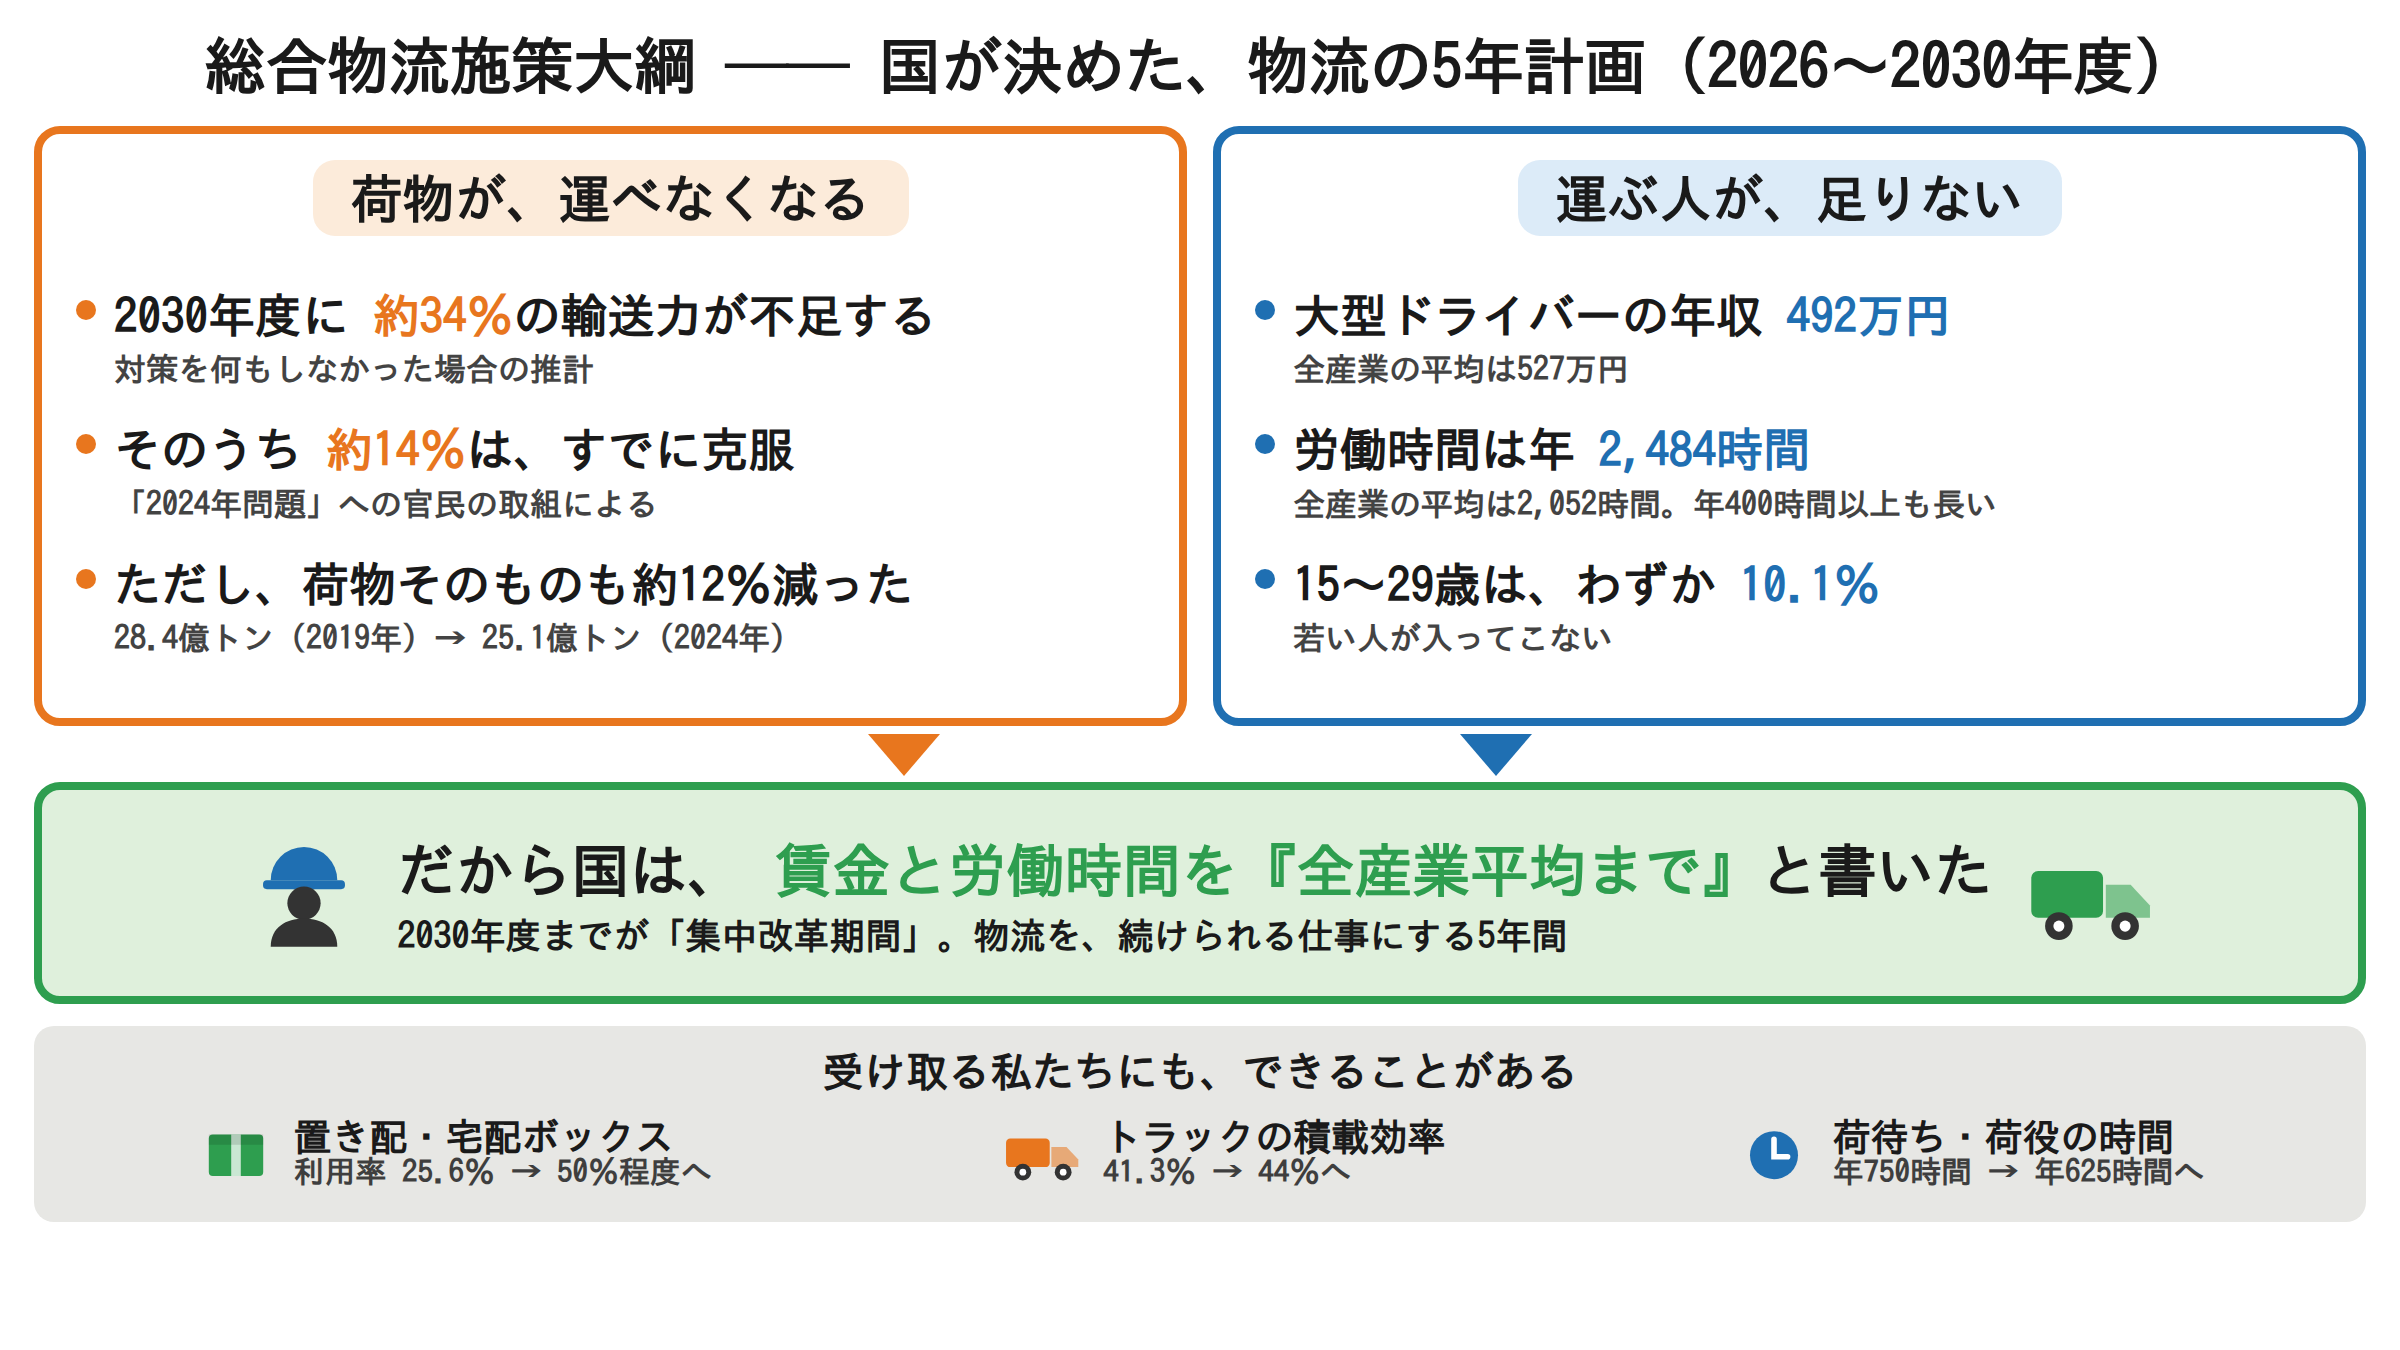
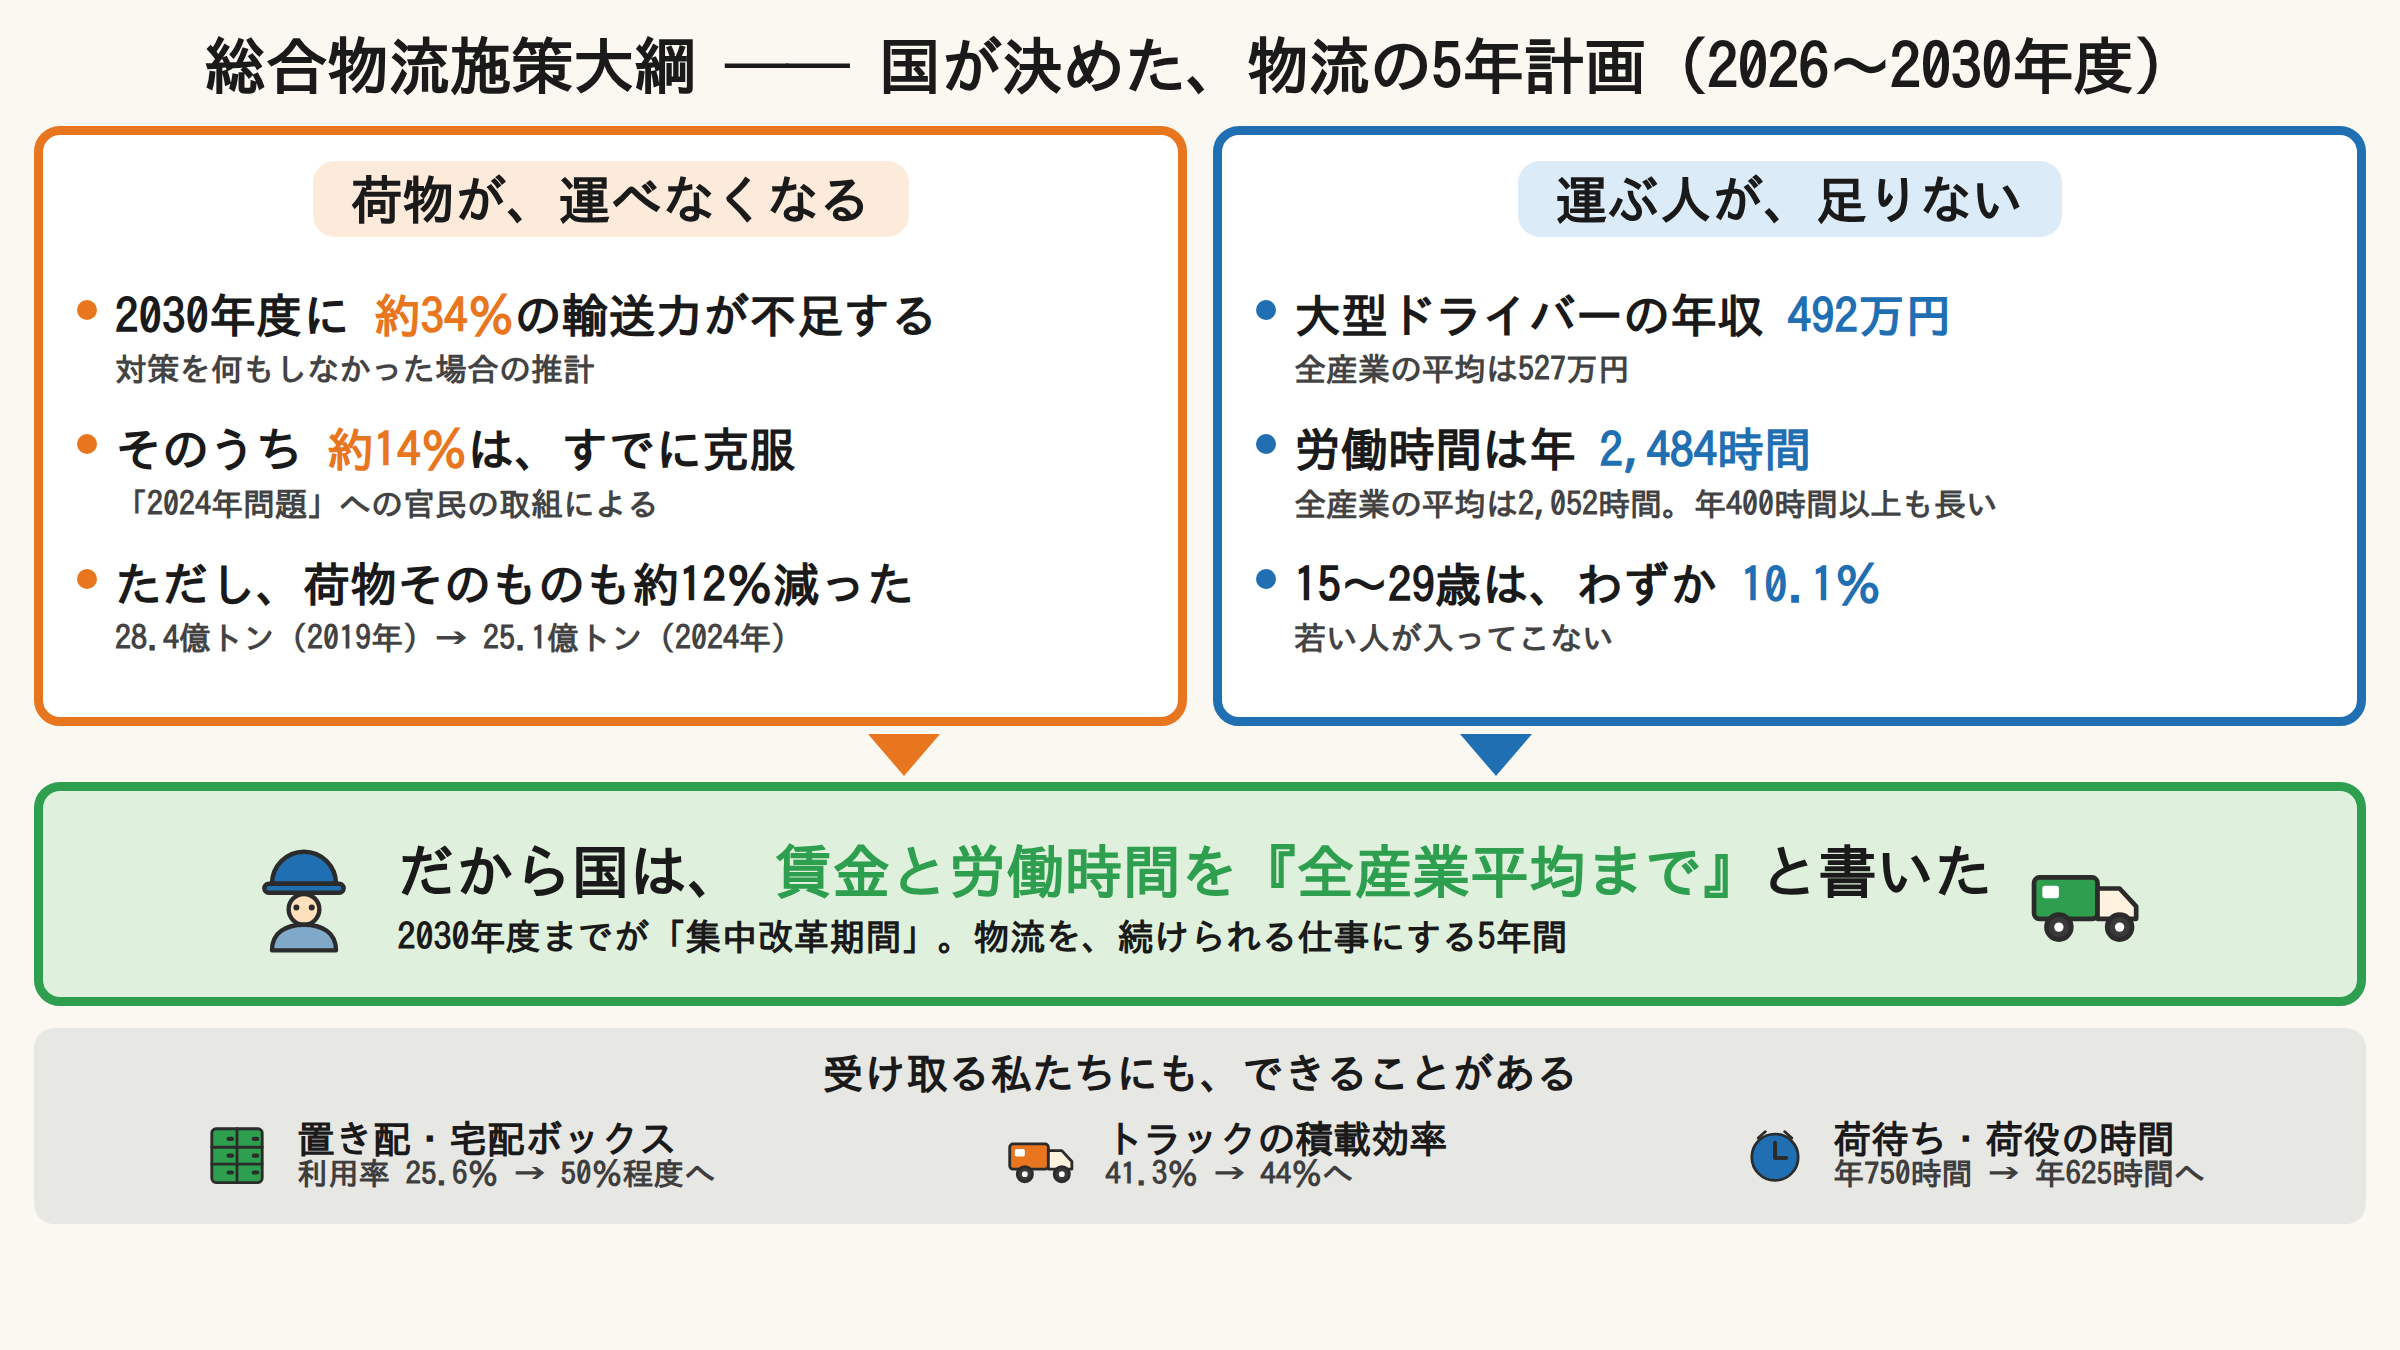
物流大綱のまとめ図：イラストを描き足して親しみやすく
記事を読まない人にも伝わるように、アイコンを線画のイラストに
描き替えた（トラック・段ボール・時計・お金・人・宅配ボックス）。
地色を温かみのある生成り（#FBF8F2）にし、パネルは白地＋太い縁取り。

数字と文言は変更なし。すべて総合物流施策大綱および国土交通省の
公表資料どおりで、こちらで作った数字はない。

レイアウトは scrollHeight == 1350 を実測して確認済み。

Claude-Session: https://claude.ai/code/session_01NGPfPw8x4vvGbUjgdjVk3R

diff --git a/wordpress/images/butsuryu/butsuryu-00-matome.html b/wordpress/images/butsuryu/butsuryu-00-matome.html
@@ -3,13 +3,13 @@
 <style>
   *{box-sizing:border-box;margin:0;padding:0}
   html,body{width:2400px;height:1350px}
-  body{background:#fff;color:#1A1A1A;font-family:"Noto Sans JP","IPAGothic",sans-serif;
+  body{background:#FBF8F2;color:#1A1A1A;font-family:"Noto Sans JP","IPAGothic",sans-serif;
        font-weight:900;-webkit-font-smoothing:antialiased;
        display:flex;flex-direction:column;padding:28px 34px 30px}
   .head{font-size:62px;text-align:center;letter-spacing:-.01em;line-height:1.2;
         padding-bottom:24px}
   .row{display:flex;gap:26px;height:600px}
-  .panel{flex:1;border:8px solid;border-radius:26px;padding:26px 34px 30px;position:relative;
+  .panel{flex:1;background:#fff;border:9px solid;border-radius:26px;padding:26px 34px 30px;position:relative;
          display:flex;flex-direction:column}
   .fukidashi{border-radius:22px;padding:12px 38px;font-size:52px;display:inline-block;
              position:relative;margin:0 auto 20px}
@@ -18,7 +18,7 @@
   ul{list-style:none;display:flex;flex-direction:column;gap:26px;flex:1;justify-content:center}
   .arrows{display:flex;justify-content:center;gap:520px;margin:8px 0 6px}
   .arrow{width:0;height:0;border:36px solid transparent;border-bottom:0;border-top-width:42px}
-  .conclusion{border:8px solid #2E9E4F;background:#DFF0DC;border-radius:26px;
+  .conclusion{border:9px solid #2E9E4F;background:#DFF0DC;border-radius:26px;
               padding:34px 30px;display:flex;align-items:center;gap:30px;justify-content:center}
   .strip{background:#E7E7E4;border-radius:20px;margin-top:22px;padding:24px 30px 28px}
   .strip h3{font-size:42px;text-align:center;margin-bottom:18px}
@@ -46,21 +46,21 @@
 </div>
 
 <div class="conclusion">
-  <svg width="128" height="128" viewBox="0 0 100 100" fill="none"><path d="M24 40a26 26 0 0152 0z" fill="#1F6FB2"/><rect x="18" y="40" width="64" height="7" rx="3" fill="#1F6FB2"/><circle cx="50" cy="58" r="13" fill="#333"/><path d="M24 92c0-15 12-22 26-22s26 7 26 22z" fill="#333"/></svg>
+  <svg width="128" height="128" viewBox="0 0 100 100" fill="none" stroke="#2B2B2B" stroke-width="3.4" stroke-linejoin="round" stroke-linecap="round"><path d="M25 42a25 25 0 0150 0z" fill="#1F6FB2"/><rect x="19" y="42" width="62" height="7" rx="3.5" fill="#1F6FB2"/><circle cx="50" cy="62" r="12" fill="#FFE0BD"/><path d="M44 60.5h.1M56 60.5h.1" stroke-width="4.6"/><path d="M25 94c0-14 11-20 25-20s25 6 25 20z" fill="#7FA8C9"/></svg>
   <div>
     <div style="font-size:58px;line-height:1.25">だから国は、<span style="color:#2E9E4F">
       賃金と労働時間を『全産業平均まで』</span>と書いた</div>
     <div style="font-size:36px;font-weight:700;margin-top:10px">
       2030年度までが「集中改革期間」。物流を、続けられる仕事にする5年間</div>
   </div>
-  <svg width="138" height="138" viewBox="0 0 100 100" fill="none"><rect x="6" y="34" width="52" height="34" rx="5" fill="#2E9E4F"/><path d="M60 44h18l14 15v9H60z" fill="#2E9E4F" opacity=".55"/><circle cx="26" cy="74" r="10" fill="#333"/><circle cx="26" cy="74" r="4" fill="#fff"/><circle cx="74" cy="74" r="10" fill="#333"/><circle cx="74" cy="74" r="4" fill="#fff"/></svg>
+  <svg width="138" height="138" viewBox="0 0 100 100" fill="none" stroke="#2B2B2B" stroke-width="3.4" stroke-linejoin="round" stroke-linecap="round"><rect x="8" y="38" width="46" height="30" rx="4" fill="#2E9E4F"/><path d="M54 46h16l12 13v9H54z" fill="#FFF3E0"/><rect x="14" y="44" width="12" height="9" rx="2" fill="#fff" stroke="none"/><circle cx="26" cy="74" r="9" fill="#3A3A3A"/><circle cx="26" cy="74" r="3.4" fill="#fff" stroke="none"/><circle cx="70" cy="74" r="9" fill="#3A3A3A"/><circle cx="70" cy="74" r="3.4" fill="#fff" stroke="none"/></svg>
 </div>
 
 <div class="strip">
   <h3>受け取る私たちにも、できることがある</h3>
   <div class="items">
-    <div class="item"><svg width="80" height="80" viewBox="0 0 100 100" fill="none"><rect x="16" y="28" width="68" height="52" rx="5" fill="#2E9E4F"/><rect x="44" y="28" width="12" height="52" fill="#fff" opacity=".75"/><rect x="16" y="28" width="68" height="13" fill="#000" opacity=".12"/></svg><div>置き配・宅配ボックス<br><small>利用率 25.6％ → 50％程度へ</small></div></div>
-    <div class="item"><svg width="84" height="84" viewBox="0 0 100 100" fill="none"><rect x="6" y="34" width="52" height="34" rx="5" fill="#E8761E"/><path d="M60 44h18l14 15v9H60z" fill="#E8761E" opacity=".55"/><circle cx="26" cy="74" r="10" fill="#333"/><circle cx="26" cy="74" r="4" fill="#fff"/><circle cx="74" cy="74" r="10" fill="#333"/><circle cx="74" cy="74" r="4" fill="#fff"/></svg><div>トラックの積載効率<br><small>41.3％ → 44％へ</small></div></div>
-    <div class="item"><svg width="80" height="80" viewBox="0 0 100 100" fill="none"><circle cx="50" cy="54" r="30" fill="#1F6FB2"/><path d="M50 34v22h17" stroke="#fff" stroke-width="7" stroke-linecap="round"/></svg><div>荷待ち・荷役の時間<br><small>年750時間 → 年625時間へ</small></div></div>
+    <div class="item"><svg width="84" height="84" viewBox="0 0 100 100" fill="none" stroke="#2B2B2B" stroke-width="3.4" stroke-linejoin="round" stroke-linecap="round"><rect x="20" y="20" width="60" height="64" rx="5" fill="#2E9E4F"/><path d="M20 42h60M20 62h60M50 20v64"/><path d="M40 32h4M70 32h4M40 52h4M70 52h4M40 72h4M70 72h4" stroke-width="5"/></svg><div>置き配・宅配ボックス<br><small>利用率 25.6％ → 50％程度へ</small></div></div>
+    <div class="item"><svg width="84" height="84" viewBox="0 0 100 100" fill="none" stroke="#2B2B2B" stroke-width="3.4" stroke-linejoin="round" stroke-linecap="round"><rect x="8" y="38" width="46" height="30" rx="4" fill="#E8761E"/><path d="M54 46h16l12 13v9H54z" fill="#FFF3E0"/><rect x="14" y="44" width="12" height="9" rx="2" fill="#fff" stroke="none"/><circle cx="26" cy="74" r="9" fill="#3A3A3A"/><circle cx="26" cy="74" r="3.4" fill="#fff" stroke="none"/><circle cx="70" cy="74" r="9" fill="#3A3A3A"/><circle cx="70" cy="74" r="3.4" fill="#fff" stroke="none"/></svg><div>トラックの積載効率<br><small>41.3％ → 44％へ</small></div></div>
+    <div class="item"><svg width="80" height="80" viewBox="0 0 100 100" fill="none" stroke="#2B2B2B" stroke-width="3.4" stroke-linejoin="round" stroke-linecap="round"><circle cx="50" cy="54" r="29" fill="#1F6FB2"/><path d="M50 36v19h14" fill="none" stroke="#2B2B2B" stroke-width="5"/><path d="M38 22l-9 8M62 22l9 8" fill="none"/></svg><div>荷待ち・荷役の時間<br><small>年750時間 → 年625時間へ</small></div></div>
   </div>
 </div>

diff --git a/wordpress/images/butsuryu/make_matome.py b/wordpress/images/butsuryu/make_matome.py
@@ -23,45 +23,56 @@ GREY   = '#E7E7E4'
 INK    = '#1A1A1A'
 
 
+def _sv(w, body, vb=100):
+    return (u'<svg width="%d" height="%d" viewBox="0 0 %d %d" fill="none" '
+            u'stroke="#2B2B2B" stroke-width="3.4" stroke-linejoin="round" '
+            u'stroke-linecap="round">%s</svg>' % (w, w, vb, vb, body))
+
+
 def icon_truck(c, s=86):
-    return (u'<svg width="%d" height="%d" viewBox="0 0 100 100" fill="none">'
-            u'<rect x="6" y="34" width="52" height="34" rx="5" fill="%s"/>'
-            u'<path d="M60 44h18l14 15v9H60z" fill="%s" opacity=".55"/>'
-            u'<circle cx="26" cy="74" r="10" fill="#333"/><circle cx="26" cy="74" r="4" fill="#fff"/>'
-            u'<circle cx="74" cy="74" r="10" fill="#333"/><circle cx="74" cy="74" r="4" fill="#fff"/>'
-            u'</svg>' % (s, s, c, c))
+    return _sv(s,
+        u'<rect x="8" y="38" width="46" height="30" rx="4" fill="%s"/>'
+        u'<path d="M54 46h16l12 13v9H54z" fill="#FFF3E0"/>'
+        u'<rect x="14" y="44" width="12" height="9" rx="2" fill="#fff" stroke="none"/>'
+        u'<circle cx="26" cy="74" r="9" fill="#3A3A3A"/><circle cx="26" cy="74" r="3.4" fill="#fff" stroke="none"/>'
+        u'<circle cx="70" cy="74" r="9" fill="#3A3A3A"/><circle cx="70" cy="74" r="3.4" fill="#fff" stroke="none"/>'
+        % c)
 
 
 def icon_box(c, s=80):
-    return (u'<svg width="%d" height="%d" viewBox="0 0 100 100" fill="none">'
-            u'<rect x="16" y="28" width="68" height="52" rx="5" fill="%s"/>'
-            u'<rect x="44" y="28" width="12" height="52" fill="#fff" opacity=".75"/>'
-            u'<rect x="16" y="28" width="68" height="13" fill="#000" opacity=".12"/>'
-            u'</svg>' % (s, s, c))
+    return _sv(s,
+        u'<rect x="14" y="30" width="72" height="50" rx="4" fill="%s"/>'
+        u'<path d="M14 46h72M50 30v50" />'
+        u'<path d="M38 22l12 8 12-8" fill="none"/>' % c)
 
 
 def icon_clock(c, s=80):
-    return (u'<svg width="%d" height="%d" viewBox="0 0 100 100" fill="none">'
-            u'<circle cx="50" cy="54" r="30" fill="%s"/>'
-            u'<path d="M50 34v22h17" stroke="#fff" stroke-width="7" stroke-linecap="round"/>'
-            u'</svg>' % (s, s, c))
+    return _sv(s,
+        u'<circle cx="50" cy="54" r="29" fill="%s"/>'
+        u'<path d="M50 36v19h14" fill="none" stroke="#2B2B2B" stroke-width="5"/>'
+        u'<path d="M38 22l-9 8M62 22l9 8" fill="none"/>' % c)
 
 
 def icon_yen(c, s=80):
-    return (u'<svg width="%d" height="%d" viewBox="0 0 100 100" fill="none">'
-            u'<circle cx="50" cy="52" r="31" fill="%s"/>'
-            u'<path d="M36 34l14 18 14-18M38 56h24M38 66h24M50 52v22" stroke="#fff" '
-            u'stroke-width="7" stroke-linecap="round" fill="none"/>'
-            u'</svg>' % (s, s, c))
+    return _sv(s,
+        u'<circle cx="50" cy="52" r="29" fill="%s"/>'
+        u'<path d="M37 34l13 17 13-17M39 55h22M39 65h22M50 51v22" fill="none" stroke-width="4.6"/>' % c)
 
 
 def icon_person(c, s=84):
-    return (u'<svg width="%d" height="%d" viewBox="0 0 100 100" fill="none">'
-            u'<path d="M24 40a26 26 0 0152 0z" fill="%s"/>'
-            u'<rect x="18" y="40" width="64" height="7" rx="3" fill="%s"/>'
-            u'<circle cx="50" cy="58" r="13" fill="#333"/>'
-            u'<path d="M24 92c0-15 12-22 26-22s26 7 26 22z" fill="#333"/>'
-            u'</svg>' % (s, s, c, c))
+    return _sv(s,
+        u'<path d="M25 42a25 25 0 0150 0z" fill="%s"/>'
+        u'<rect x="19" y="42" width="62" height="7" rx="3.5" fill="%s"/>'
+        u'<circle cx="50" cy="62" r="12" fill="#FFE0BD"/>'
+        u'<path d="M44 60.5h.1M56 60.5h.1" stroke-width="4.6"/>'
+        u'<path d="M25 94c0-14 11-20 25-20s25 6 25 20z" fill="#7FA8C9"/>' % (c, c))
+
+
+def icon_locker(c, s=80):
+    return _sv(s,
+        u'<rect x="20" y="20" width="60" height="64" rx="5" fill="%s"/>'
+        u'<path d="M20 42h60M20 62h60M50 20v64"/>'
+        u'<path d="M40 32h4M70 32h4M40 52h4M70 52h4M40 72h4M70 72h4" stroke-width="5"/>' % c)
 
 
 def bullet(color, head, sub=u''):
@@ -79,13 +90,13 @@ HTML = u'''<meta charset="utf-8">
 <style>
   *{box-sizing:border-box;margin:0;padding:0}
   html,body{width:2400px;height:1350px}
-  body{background:#fff;color:__INK__;font-family:"Noto Sans JP","IPAGothic",sans-serif;
+  body{background:#FBF8F2;color:__INK__;font-family:"Noto Sans JP","IPAGothic",sans-serif;
        font-weight:900;-webkit-font-smoothing:antialiased;
        display:flex;flex-direction:column;padding:28px 34px 30px}
   .head{font-size:62px;text-align:center;letter-spacing:-.01em;line-height:1.2;
         padding-bottom:24px}
   .row{display:flex;gap:26px;height:600px}
-  .panel{flex:1;border:8px solid;border-radius:26px;padding:26px 34px 30px;position:relative;
+  .panel{flex:1;background:#fff;border:9px solid;border-radius:26px;padding:26px 34px 30px;position:relative;
          display:flex;flex-direction:column}
   .fukidashi{border-radius:22px;padding:12px 38px;font-size:52px;display:inline-block;
              position:relative;margin:0 auto 20px}
@@ -94,7 +105,7 @@ HTML = u'''<meta charset="utf-8">
   ul{list-style:none;display:flex;flex-direction:column;gap:26px;flex:1;justify-content:center}
   .arrows{display:flex;justify-content:center;gap:520px;margin:8px 0 6px}
   .arrow{width:0;height:0;border:36px solid transparent;border-bottom:0;border-top-width:42px}
-  .conclusion{border:8px solid __GREEN__;background:__GREEN_BG__;border-radius:26px;
+  .conclusion{border:9px solid __GREEN__;background:__GREEN_BG__;border-radius:26px;
               padding:34px 30px;display:flex;align-items:center;gap:30px;justify-content:center}
   .strip{background:__GREY__;border-radius:20px;margin-top:22px;padding:24px 30px 28px}
   .strip h3{font-size:42px;text-align:center;margin-bottom:18px}
@@ -168,7 +179,7 @@ def build():
                  ('__ICON_PERSON__', icon_person(BLUE, 128)),
                  ('__ICON_TRUCK__', icon_truck(GREEN, 138)),
                  ('__ICON_TRUCK2__', icon_truck(ORANGE, 84)),
-                 ('__ICON_BOX__', icon_box(GREEN, 80)),
+                 ('__ICON_BOX__', icon_locker(GREEN, 84)),
                  ('__ICON_CLOCK__', icon_clock(BLUE, 80))]:
         t = t.replace(k, v)
     return t
